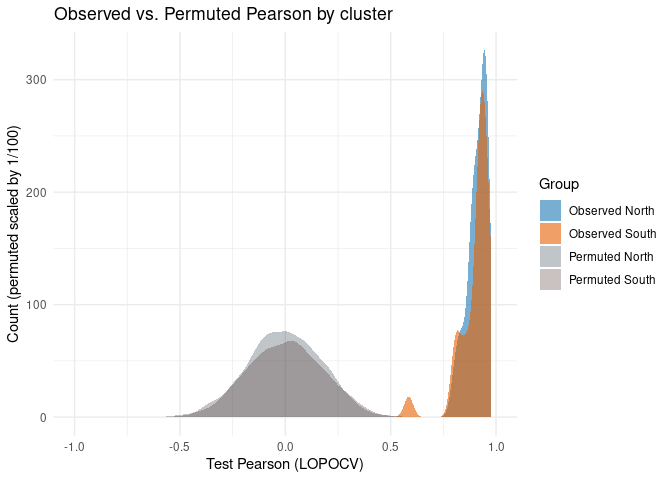
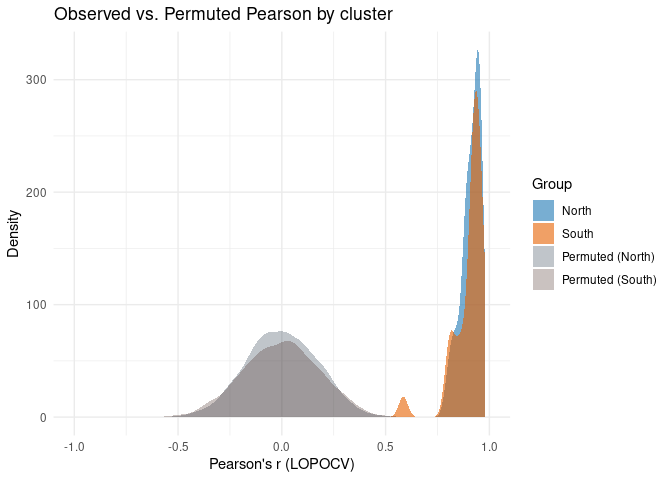
9-10

diff --git a/scripts_knitted_md/09_LOPOCV_permutations.md b/scripts_knitted_md/09_LOPOCV_permutations.md
@@ -1,7 +1,7 @@
 LOPOCV: Random Forest (Internal) and Spatial Cross-Validation
 ================
 Norah Saarman
-2026-04-14
+2026-04-15
 
 - [Setup](#setup)
   - [Overview of script](#overview-of-script)
@@ -16,6 +16,8 @@ Norah Saarman
   - [Chunk 3: Compare Distributions](#chunk-3-compare-distributions)
   - [Chunk 5: Visualize permutated vs observed LOPOCV
     side-by-side](#chunk-5-visualize-permutated-vs-observed-lopocv-side-by-side)
+- [TODO: Spatial Eval, doesn’t seem worth too much
+  energy](#todo-spatial-eval-doesnt-seem-worth-too-much-energy)
   - [TODO: Chunk 6: Spatial evaluation for permuted LOPOCV
     models](#todo-chunk-6-spatial-evaluation-for-permuted-lopocv-models)
   - [TODO: Chunk 7: Spatial permutation
@@ -115,6 +117,10 @@ perm_model_dir <- file.path(results_dir, "perm_rds_temp")
 dir.create(perm_model_dir, recursive = TRUE, showWarnings = FALSE)
 stopifnot(dir.exists(perm_model_dir))
 stopifnot(file.access(perm_model_dir, 2) == 0)
+
+# High-quality figure output (for manuscript)
+fig_dir <- file.path(results_dir, "figures_pub")
+if (!dir.exists(fig_dir)) dir.create(fig_dir, recursive = TRUE)
 
 # define coordinate reference system
 crs_geo <- 4326     # EPSG code for WGS84
@@ -365,12 +371,7 @@ metrics_all <- metrics_all[match(rownames(pearson_null), metrics_all$site), ]
 
 pearson_obs <- as.numeric(metrics_all$Pearson)
 
-pearson_null_raw <- read.csv(
-  file.path(results_dir, "pearson_LOPOCV_null_matrix.csv"),
-  row.names = 1,
-  check.names = FALSE
-)
-pearson_null_mat <- as.matrix(pearson_null_raw)
+pearson_null_mat <- as.matrix(pearson_null)
 
 # reorder rows to observed site order if needed
 pearson_null_mat <- pearson_null_mat[match(metrics_all$site, rownames(pearson_null_mat)), ]
@@ -394,7 +395,7 @@ ggplot(plot_df_pearson, aes(x = pearson, fill = type)) +
   )
 ```
 
-    ## Warning: Removed 6767 rows containing non-finite outside the scale range
+    ## Warning: Removed 6834 rows containing non-finite outside the scale range
     ## (`stat_density()`).
 
 ![](../figures/knitted_mds/plot-pearson-lopocv-1.png)<!-- --> \## Chunk
@@ -462,212 +463,7 @@ obs_mean_south <- mean(obs_south, na.rm = TRUE)
 
 null_mean_north <- apply(null_north_mat, 2, mean, na.rm = TRUE)
 null_mean_south <- apply(null_south_mat, 2, mean, na.rm = TRUE)
-```
 
-    ## Warning in mean.default(newX[, i], ...): argument is not numeric or logical:
-    ## returning NA
-    ## Warning in mean.default(newX[, i], ...): argument is not numeric or logical:
-    ## returning NA
-    ## Warning in mean.default(newX[, i], ...): argument is not numeric or logical:
-    ## returning NA
-    ## Warning in mean.default(newX[, i], ...): argument is not numeric or logical:
-    ## returning NA
-    ## Warning in mean.default(newX[, i], ...): argument is not numeric or logical:
-    ## returning NA
-    ## Warning in mean.default(newX[, i], ...): argument is not numeric or logical:
-    ## returning NA
-    ## Warning in mean.default(newX[, i], ...): argument is not numeric or logical:
-    ## returning NA
-    ## Warning in mean.default(newX[, i], ...): argument is not numeric or logical:
-    ## returning NA
-    ## Warning in mean.default(newX[, i], ...): argument is not numeric or logical:
-    ## returning NA
-    ## Warning in mean.default(newX[, i], ...): argument is not numeric or logical:
-    ## returning NA
-    ## Warning in mean.default(newX[, i], ...): argument is not numeric or logical:
-    ## returning NA
-    ## Warning in mean.default(newX[, i], ...): argument is not numeric or logical:
-    ## returning NA
-    ## Warning in mean.default(newX[, i], ...): argument is not numeric or logical:
-    ## returning NA
-    ## Warning in mean.default(newX[, i], ...): argument is not numeric or logical:
-    ## returning NA
-    ## Warning in mean.default(newX[, i], ...): argument is not numeric or logical:
-    ## returning NA
-    ## Warning in mean.default(newX[, i], ...): argument is not numeric or logical:
-    ## returning NA
-    ## Warning in mean.default(newX[, i], ...): argument is not numeric or logical:
-    ## returning NA
-    ## Warning in mean.default(newX[, i], ...): argument is not numeric or logical:
-    ## returning NA
-    ## Warning in mean.default(newX[, i], ...): argument is not numeric or logical:
-    ## returning NA
-    ## Warning in mean.default(newX[, i], ...): argument is not numeric or logical:
-    ## returning NA
-    ## Warning in mean.default(newX[, i], ...): argument is not numeric or logical:
-    ## returning NA
-    ## Warning in mean.default(newX[, i], ...): argument is not numeric or logical:
-    ## returning NA
-    ## Warning in mean.default(newX[, i], ...): argument is not numeric or logical:
-    ## returning NA
-    ## Warning in mean.default(newX[, i], ...): argument is not numeric or logical:
-    ## returning NA
-    ## Warning in mean.default(newX[, i], ...): argument is not numeric or logical:
-    ## returning NA
-    ## Warning in mean.default(newX[, i], ...): argument is not numeric or logical:
-    ## returning NA
-    ## Warning in mean.default(newX[, i], ...): argument is not numeric or logical:
-    ## returning NA
-    ## Warning in mean.default(newX[, i], ...): argument is not numeric or logical:
-    ## returning NA
-    ## Warning in mean.default(newX[, i], ...): argument is not numeric or logical:
-    ## returning NA
-    ## Warning in mean.default(newX[, i], ...): argument is not numeric or logical:
-    ## returning NA
-    ## Warning in mean.default(newX[, i], ...): argument is not numeric or logical:
-    ## returning NA
-    ## Warning in mean.default(newX[, i], ...): argument is not numeric or logical:
-    ## returning NA
-    ## Warning in mean.default(newX[, i], ...): argument is not numeric or logical:
-    ## returning NA
-    ## Warning in mean.default(newX[, i], ...): argument is not numeric or logical:
-    ## returning NA
-    ## Warning in mean.default(newX[, i], ...): argument is not numeric or logical:
-    ## returning NA
-    ## Warning in mean.default(newX[, i], ...): argument is not numeric or logical:
-    ## returning NA
-    ## Warning in mean.default(newX[, i], ...): argument is not numeric or logical:
-    ## returning NA
-    ## Warning in mean.default(newX[, i], ...): argument is not numeric or logical:
-    ## returning NA
-    ## Warning in mean.default(newX[, i], ...): argument is not numeric or logical:
-    ## returning NA
-    ## Warning in mean.default(newX[, i], ...): argument is not numeric or logical:
-    ## returning NA
-    ## Warning in mean.default(newX[, i], ...): argument is not numeric or logical:
-    ## returning NA
-    ## Warning in mean.default(newX[, i], ...): argument is not numeric or logical:
-    ## returning NA
-    ## Warning in mean.default(newX[, i], ...): argument is not numeric or logical:
-    ## returning NA
-    ## Warning in mean.default(newX[, i], ...): argument is not numeric or logical:
-    ## returning NA
-    ## Warning in mean.default(newX[, i], ...): argument is not numeric or logical:
-    ## returning NA
-    ## Warning in mean.default(newX[, i], ...): argument is not numeric or logical:
-    ## returning NA
-    ## Warning in mean.default(newX[, i], ...): argument is not numeric or logical:
-    ## returning NA
-    ## Warning in mean.default(newX[, i], ...): argument is not numeric or logical:
-    ## returning NA
-    ## Warning in mean.default(newX[, i], ...): argument is not numeric or logical:
-    ## returning NA
-    ## Warning in mean.default(newX[, i], ...): argument is not numeric or logical:
-    ## returning NA
-    ## Warning in mean.default(newX[, i], ...): argument is not numeric or logical:
-    ## returning NA
-    ## Warning in mean.default(newX[, i], ...): argument is not numeric or logical:
-    ## returning NA
-    ## Warning in mean.default(newX[, i], ...): argument is not numeric or logical:
-    ## returning NA
-    ## Warning in mean.default(newX[, i], ...): argument is not numeric or logical:
-    ## returning NA
-    ## Warning in mean.default(newX[, i], ...): argument is not numeric or logical:
-    ## returning NA
-    ## Warning in mean.default(newX[, i], ...): argument is not numeric or logical:
-    ## returning NA
-    ## Warning in mean.default(newX[, i], ...): argument is not numeric or logical:
-    ## returning NA
-    ## Warning in mean.default(newX[, i], ...): argument is not numeric or logical:
-    ## returning NA
-    ## Warning in mean.default(newX[, i], ...): argument is not numeric or logical:
-    ## returning NA
-    ## Warning in mean.default(newX[, i], ...): argument is not numeric or logical:
-    ## returning NA
-    ## Warning in mean.default(newX[, i], ...): argument is not numeric or logical:
-    ## returning NA
-    ## Warning in mean.default(newX[, i], ...): argument is not numeric or logical:
-    ## returning NA
-    ## Warning in mean.default(newX[, i], ...): argument is not numeric or logical:
-    ## returning NA
-    ## Warning in mean.default(newX[, i], ...): argument is not numeric or logical:
-    ## returning NA
-    ## Warning in mean.default(newX[, i], ...): argument is not numeric or logical:
-    ## returning NA
-    ## Warning in mean.default(newX[, i], ...): argument is not numeric or logical:
-    ## returning NA
-    ## Warning in mean.default(newX[, i], ...): argument is not numeric or logical:
-    ## returning NA
-    ## Warning in mean.default(newX[, i], ...): argument is not numeric or logical:
-    ## returning NA
-    ## Warning in mean.default(newX[, i], ...): argument is not numeric or logical:
-    ## returning NA
-    ## Warning in mean.default(newX[, i], ...): argument is not numeric or logical:
-    ## returning NA
-    ## Warning in mean.default(newX[, i], ...): argument is not numeric or logical:
-    ## returning NA
-    ## Warning in mean.default(newX[, i], ...): argument is not numeric or logical:
-    ## returning NA
-    ## Warning in mean.default(newX[, i], ...): argument is not numeric or logical:
-    ## returning NA
-    ## Warning in mean.default(newX[, i], ...): argument is not numeric or logical:
-    ## returning NA
-    ## Warning in mean.default(newX[, i], ...): argument is not numeric or logical:
-    ## returning NA
-    ## Warning in mean.default(newX[, i], ...): argument is not numeric or logical:
-    ## returning NA
-    ## Warning in mean.default(newX[, i], ...): argument is not numeric or logical:
-    ## returning NA
-    ## Warning in mean.default(newX[, i], ...): argument is not numeric or logical:
-    ## returning NA
-    ## Warning in mean.default(newX[, i], ...): argument is not numeric or logical:
-    ## returning NA
-    ## Warning in mean.default(newX[, i], ...): argument is not numeric or logical:
-    ## returning NA
-    ## Warning in mean.default(newX[, i], ...): argument is not numeric or logical:
-    ## returning NA
-    ## Warning in mean.default(newX[, i], ...): argument is not numeric or logical:
-    ## returning NA
-    ## Warning in mean.default(newX[, i], ...): argument is not numeric or logical:
-    ## returning NA
-    ## Warning in mean.default(newX[, i], ...): argument is not numeric or logical:
-    ## returning NA
-    ## Warning in mean.default(newX[, i], ...): argument is not numeric or logical:
-    ## returning NA
-    ## Warning in mean.default(newX[, i], ...): argument is not numeric or logical:
-    ## returning NA
-    ## Warning in mean.default(newX[, i], ...): argument is not numeric or logical:
-    ## returning NA
-    ## Warning in mean.default(newX[, i], ...): argument is not numeric or logical:
-    ## returning NA
-    ## Warning in mean.default(newX[, i], ...): argument is not numeric or logical:
-    ## returning NA
-    ## Warning in mean.default(newX[, i], ...): argument is not numeric or logical:
-    ## returning NA
-    ## Warning in mean.default(newX[, i], ...): argument is not numeric or logical:
-    ## returning NA
-    ## Warning in mean.default(newX[, i], ...): argument is not numeric or logical:
-    ## returning NA
-    ## Warning in mean.default(newX[, i], ...): argument is not numeric or logical:
-    ## returning NA
-    ## Warning in mean.default(newX[, i], ...): argument is not numeric or logical:
-    ## returning NA
-    ## Warning in mean.default(newX[, i], ...): argument is not numeric or logical:
-    ## returning NA
-    ## Warning in mean.default(newX[, i], ...): argument is not numeric or logical:
-    ## returning NA
-    ## Warning in mean.default(newX[, i], ...): argument is not numeric or logical:
-    ## returning NA
-    ## Warning in mean.default(newX[, i], ...): argument is not numeric or logical:
-    ## returning NA
-    ## Warning in mean.default(newX[, i], ...): argument is not numeric or logical:
-    ## returning NA
-    ## Warning in mean.default(newX[, i], ...): argument is not numeric or logical:
-    ## returning NA
-    ## Warning in mean.default(newX[, i], ...): argument is not numeric or logical:
-    ## returning NA
-
-``` r
 p_north <- (sum(null_mean_north >= obs_mean_north) + 1) / (length(null_mean_north) + 1)
 p_south <- (sum(null_mean_south >= obs_mean_south) + 1) / (length(null_mean_south) + 1)
 
@@ -740,6 +536,10 @@ pearson_plot_df <- rbind(
   pearson_null_long[, c("site", "cluster", "pearson", "type")]
 )
 
+# Run just once to save high quality png for publication
+#png(file.path(fig_dir, "Fig_LOPOCV_obs_vs_permuted.png"), 
+#       width = 7, height = 2.8, units = "in", res = 600) 
+
 # Plot
 ggplot(pearson_plot_df, aes(x = pearson, fill = interaction(type, cluster))) +
   geom_density(
@@ -765,23 +565,28 @@ ggplot(pearson_plot_df, aes(x = pearson, fill = interaction(type, cluster))) +
       "Permuted.south" = "#4e342e"
     ),
     labels = c(
-      "Observed.north" = "Observed North",
-      "Observed.south" = "Observed South",
-      "Permuted.north" = "Permuted North",
-      "Permuted.south" = "Permuted South"
+      "Observed.north" = "North",
+      "Observed.south" = "South",
+      "Permuted.north" = "Permuted (North)",
+      "Permuted.south" = "Permuted (South)"
     )
   ) +
   coord_cartesian(xlim = c(-1, 1)) +
   theme_minimal() +
   labs(
     title = "Observed vs. Permuted Pearson by cluster",
-    x = "Test Pearson (LOPOCV)",
-    y = "Count (permuted scaled by 1/100)"
+    x = "Pearson's r (LOPOCV)",
+    y = "Density"
   )
 ```
 
-![](../figures/knitted_mds/plot-side-by-side-1.png)<!-- --> \# TODO:
-Spatial Eval, doesn’t seem worth too much energy
+![](../figures/knitted_mds/plot-side-by-side-1.png)<!-- -->
+
+``` r
+#dev.off()
+```
+
+# TODO: Spatial Eval, doesn’t seem worth too much energy
 
 ## TODO: Chunk 6: Spatial evaluation for permuted LOPOCV models
 
